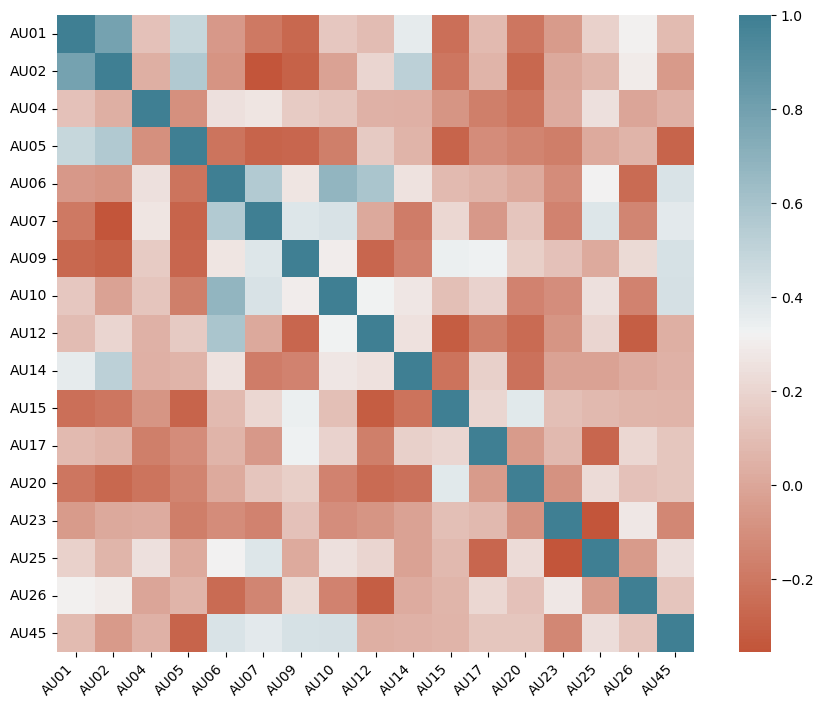
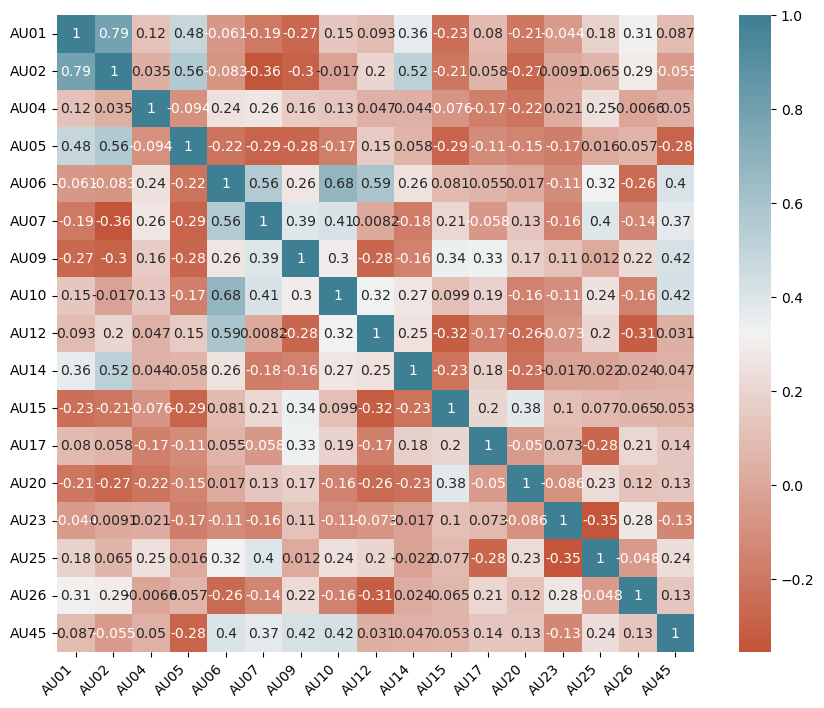
notes correlation

diff --git a/src/runCorr.py b/src/runCorr.py
@@ -15,14 +15,13 @@ for ent in entries:
     nome = ent.split('.')
     if 'analysis' in ent:
 
-        print(ent)
         data = pd.read_csv(path + ent, delimiter=';')
 
         data = data.iloc[:, 1:18]
 
         data.corr()
 
-        ax = sns.heatmap(data.corr(), cmap=sns.diverging_palette(20, 220, n=200),square=True);
+        ax = sns.heatmap(data.corr(), cmap=sns.diverging_palette(20, 220, n=200),square=True, annot=True);
 
         ax.set_xticklabels(
             ax.get_xticklabels(),
@@ -33,7 +32,7 @@ for ent in entries:
         plt.gcf().set_size_inches(11.7, 8.27)
         plt.savefig("./extras/correlations/"+nome[0]+".png",bbox_inches='tight',dpi=100)
         
-        plt.show()
+        # plt.show()
         
         plt.clf()
         plt.close()
